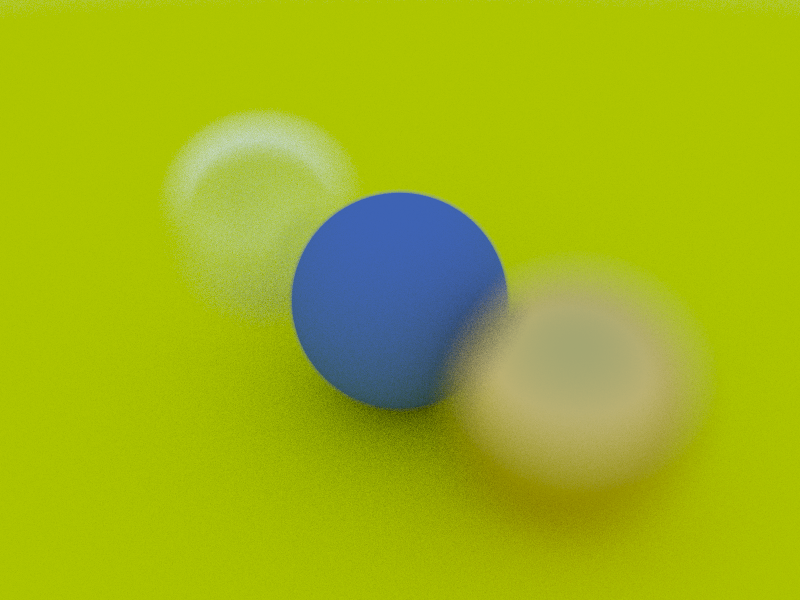
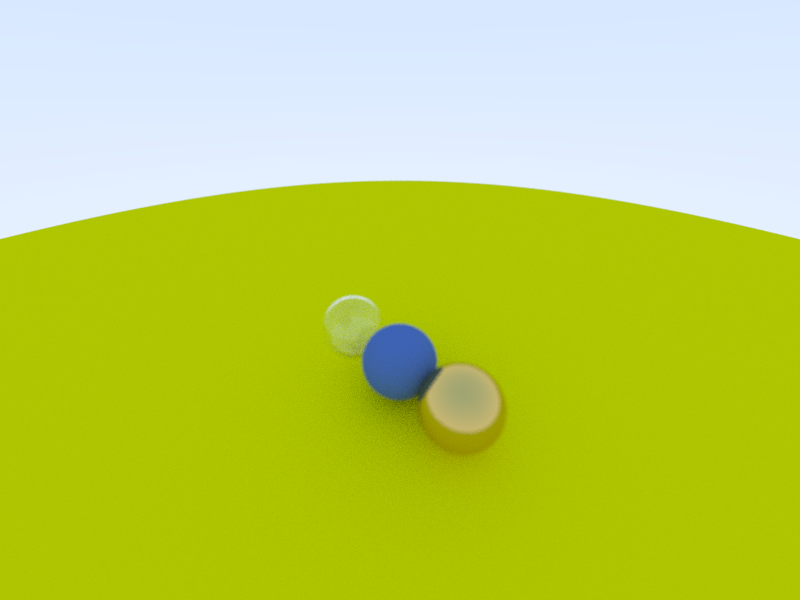
feat: upload camera & image data to GPU

diff --git a/src/Raytracer.cpp b/src/Raytracer.cpp
@@ -1,4 +1,5 @@
 #include "Raytracer.h"
+#include "Utils.h"
 #include <iostream>
 #include <memory>
 
@@ -45,14 +46,26 @@ void Raytracer::Draw()
 
 void Raytracer::DrawGPU()
 {
+	Camera.Update();
 	UpdateGPUData();
 	m_GPU->Run(Canvas, m_GPUData);
 }
 
 void Raytracer::UpdateGPUData()
 {
+	// General Information
 	m_GPUData.get()->width = m_Width;
 	m_GPUData.get()->height = m_Height;
-	m_GPUData.get()->samplesPerPixel = 64;
+	m_GPUData.get()->samplesPerPixel = m_PixelWidth * m_PixelWidth;
+
+	// Camera
+	m_GPUData.get()->camera.position = toGLSLVec3(Camera.Position);
+	m_GPUData.get()->camera.lowerLeftCorner = toGLSLVec3(Camera.LowerLeftCorner);
+	m_GPUData.get()->camera.horizontal = toGLSLVec3(Camera.Horizontal);
+	m_GPUData.get()->camera.vertical = toGLSLVec3(Camera.Vertical);
+	m_GPUData.get()->camera.w = toGLSLVec3(Camera.W);
+	m_GPUData.get()->camera.u = toGLSLVec3(Camera.U);
+	m_GPUData.get()->camera.v = toGLSLVec3(Camera.V);
+	m_GPUData.get()->camera.lensRadius = Camera.LensRadius;
 
 }

diff --git a/src/SceneData.h b/src/SceneData.h
@@ -2,21 +2,24 @@
 #include "glm/glm.hpp"
 
 struct SphereData {
-    glm::vec3 position;
+    glm::vec4 position;
     float radius;
 };
 
 struct CameraData {
-    glm::vec3 position;
-    float focusDistance;
-    float ratio;
-    glm::vec3 lowerLeftColor;
-    glm::vec3 horizontal;
-    glm::vec3 vertical;
+    glm::vec4 position;
+    glm::vec4 lowerLeftCorner;
+	glm::vec4 horizontal;
+	glm::vec4 vertical;
+	glm::vec4 w;
+	glm::vec4 u;
+	glm::vec4 v;
+	float lensRadius;
 };
 
 struct SceneData {
     int width;
     int height;
 	int samplesPerPixel;
+	CameraData camera;
 };

diff --git a/src/main.cpp b/src/main.cpp
@@ -19,7 +19,7 @@ int main() {
 
 void DrawRandomScenes() {
 	Raytracer raytracer(
-		800, 600, glm::vec3(13.0f, 2.0f, 3.0f), glm::vec3(0.0f, 0.0f, 0.0f), 20.0f, 0.1f, 10.0f, 4
+		800, 600, glm::vec3(-3.0f, 3.0f, 2.0f), glm::vec3(0.0f, 0.0f, -1.0f), 90.0f, 0.1f, 10.0f, 81
 	);
 
 	int numScenes = 1;

diff --git a/src/Utils.cpp b/src/Utils.cpp
@@ -69,3 +69,7 @@ glm::vec3 randomInUnitSphere() {
 glm::vec3 randomColor() {
     return glm::vec3(randomFloatU(), randomFloatU(), randomFloatU());
 }
+
+glm::vec4 toGLSLVec3(const glm::vec3& vec) {
+	return glm::vec4(1.0f, vec.b, vec.g, vec.r);
+}

diff --git a/src/Utils.h b/src/Utils.h
@@ -10,3 +10,4 @@ glm::vec3 randomUnitVector();
 glm::vec3 randomInHemisphere(const glm::vec3& normal);
 glm::vec3 randomInUnitDisk();
 glm::vec3 randomColor();
+glm::vec4 toGLSLVec3(const glm::vec3& vec);
